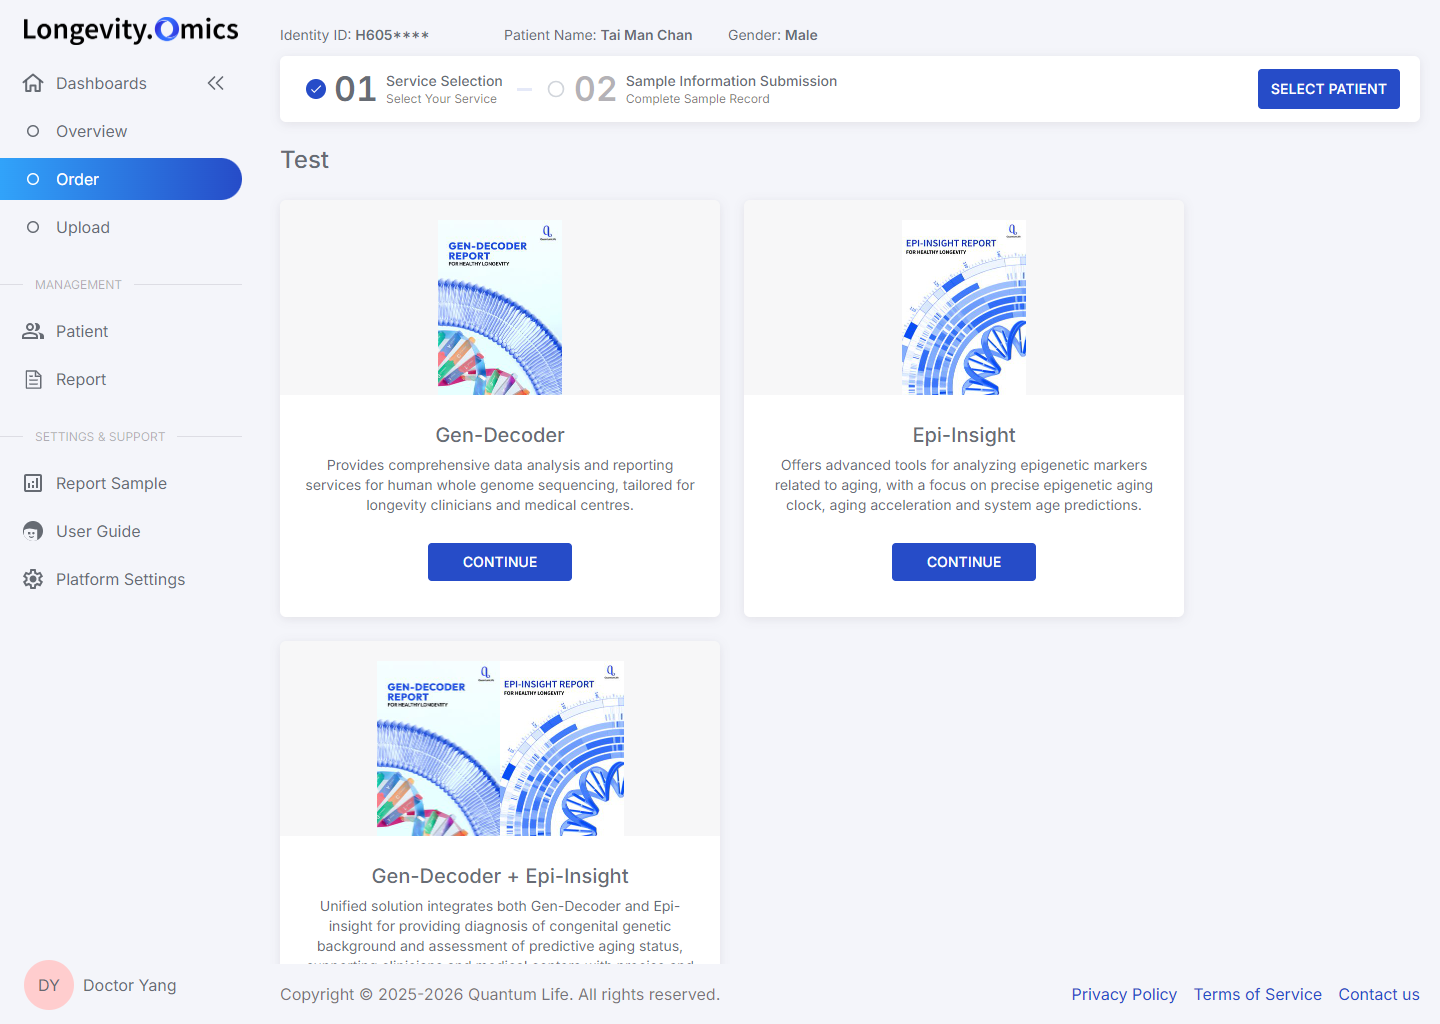
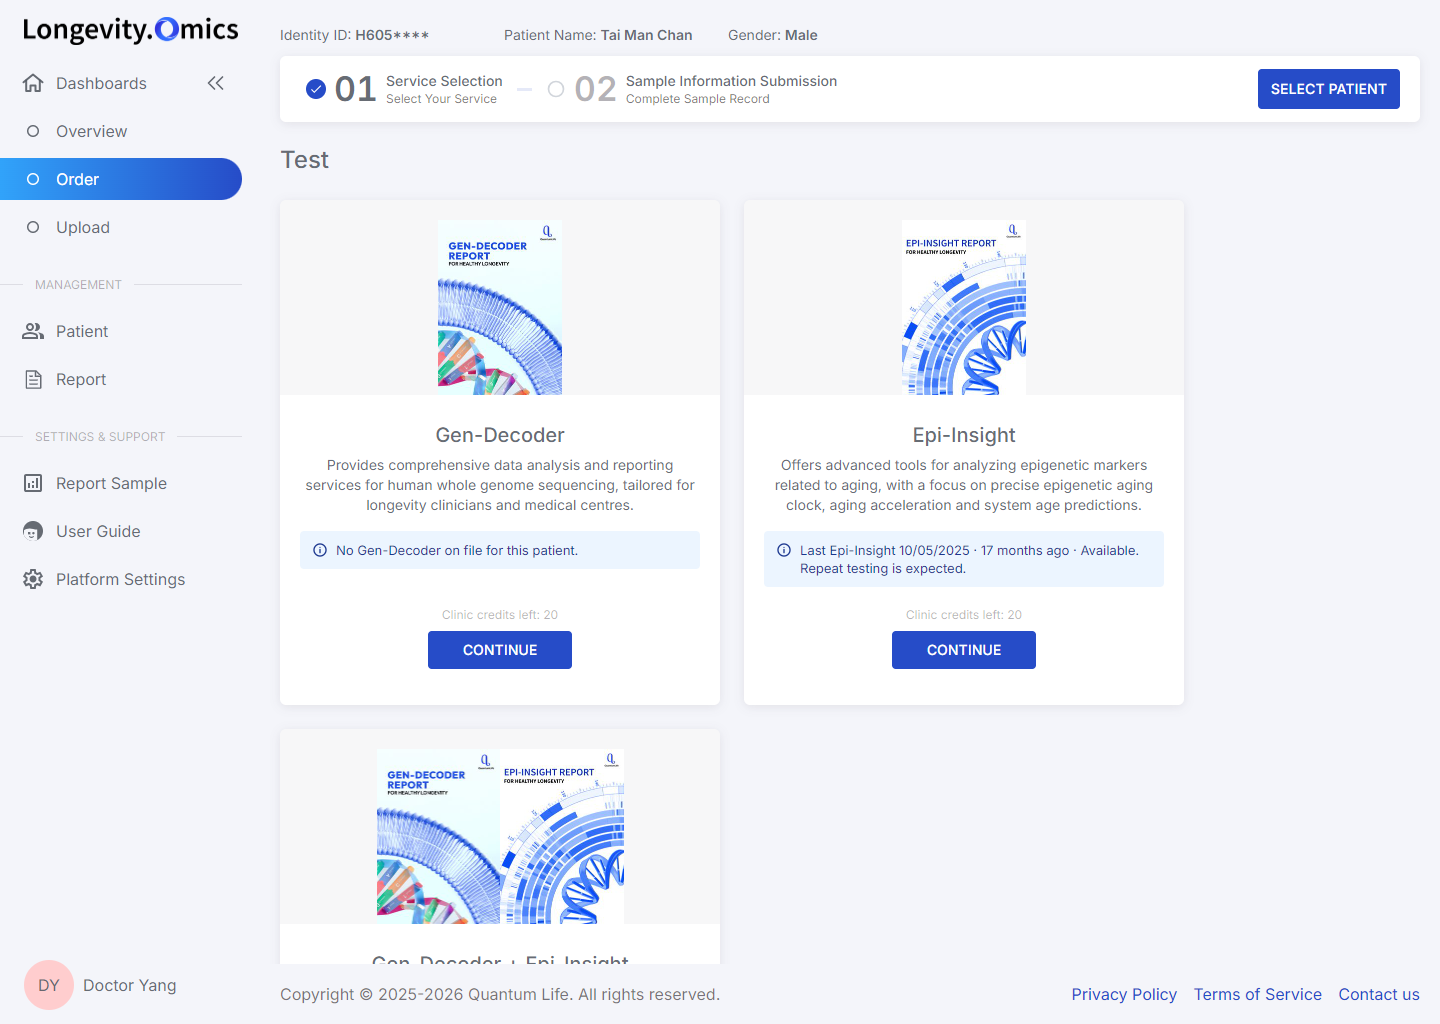
Order: one showcase for both entry points, patient-aware cards, Gen-Decoder reminder
- Patient file NEW REPORT now opens the Order showcase with that patient; the separate New Report modal is removed
- With a patient selected, each card shows its hint: existing Gen-Decoder, last Epi-Insight, Omni-Health prerequisites
- Cards show remaining clinic credits; blocked cards are disabled with the reason on the card
- Gen-Decoder (and the bundle) remind when one is already on file and allow Order anyway
- Omni-Health now requires an available Gen-Decoder and Epi-Insight (team rule) instead of the production check
- CONTINUE without a patient opens Select Patient directly, without a toast first

Changed region(s): [[0.2188, 0.5312, 0.4688, 0.9375], [0.5312, 0.5312, 0.7812, 0.6562]]

diff --git a/index.html b/index.html
@@ -215,24 +215,9 @@ tr.other .tag{opacity:.75}
 .by svg,.locked-note svg{width:14px;height:14px;flex:none}
 .locked-note{font-size:12px;color:var(--text-3);display:inline-flex;align-items:center;gap:6px}
 .rep-cell{font-size:13px}.rep-cell b{font-weight:500;color:var(--text)}.rep-cell.none{color:var(--text-3)}
-.overlay{position:absolute;left:260px;top:0;right:0;bottom:0;background:rgba(0,0,0,.5);z-index:80;display:flex;align-items:center;justify-content:center}
-.modal{width:600px;background:#fff;border-radius:6px;box-shadow:0 12px 32px 4px #0000000A,0 8px 20px #00000014;padding:16px}
-.m-head{display:flex;align-items:flex-start;justify-content:space-between;margin-bottom:14px}
-.m-title{font-size:18px;line-height:24px;font-weight:500;color:var(--text)}
-.m-sub{font-size:13px;color:var(--text-2);margin-top:2px}
 .m-close{width:28px;height:28px;border:0;background:none;color:var(--muted);cursor:pointer;border-radius:4px;display:flex;align-items:center;justify-content:center}
 .m-close svg{width:16px;height:16px}
 .m-close:hover{background:var(--hover);color:var(--text)}
-.opts{display:flex;flex-direction:column;gap:10px}
-.opt{display:flex;align-items:flex-start;gap:12px;padding:12px 14px;border:1px solid var(--border-light);border-radius:6px;cursor:pointer;transition:border-color .15s,background .15s}
-.opt:hover{border-color:#C9D4F5}
-.opt.sel{border-color:var(--primary);background:#F7F9FF}
-.opt .radio{width:16px;height:16px;border-radius:50%;border:1px solid var(--border);margin-top:1px;flex:none;position:relative;background:#fff}
-.opt.sel .radio{border-color:var(--primary);background:var(--primary)}
-.opt.sel .radio::after{content:"";position:absolute;inset:4px;border-radius:50%;background:#fff}
-.o-name{font-size:14px;font-weight:500;color:var(--text)}
-.o-desc{font-size:12px;line-height:16px;color:var(--text-2);margin-top:2px;max-width:400px}
-.o-have{margin-left:auto;font-size:12px;color:var(--text-2);white-space:nowrap;padding-top:2px}
 .note{margin-top:14px;border-radius:4px;padding:10px 12px;font-size:13px;line-height:18px;display:flex;gap:8px}
 .note b{font-weight:500}
 .note svg{width:16px;height:16px;flex:none;margin-top:1px}
@@ -264,16 +249,24 @@ tr.other .tag{opacity:.75}
 .o-group{font-size:24px;line-height:32px;font-weight:500;color:var(--text)}
 .o-group.analysis{margin-top:32px}
 .o-cards{margin-top:24px;display:flex;flex-wrap:wrap;gap:24px}
-.svc-card{max-width:440px;min-width:360px;overflow:hidden}
+.svc-card{max-width:440px;min-width:360px;overflow:hidden;display:flex;flex-direction:column}
+.svc-card.flash{animation:cardflash 1.8s ease}
+@keyframes cardflash{0%,55%{box-shadow:0 0 0 2px var(--primary),var(--shadow)}100%{box-shadow:var(--shadow)}}
 .svc-card .img{display:flex;align-items:center;justify-content:center;font-size:0;background:#3a35410a;padding:20px 20px 0}
 .svc-card .img img{height:175px;display:block}
 .svc-card .img img.multi{max-width:200px;object-fit:cover}
 .svc-card .img img.rt{object-position:right top}
 .svc-card .img img.lt{object-position:left top}
-.svc-card .bd{display:flex;flex-direction:column;align-items:center;padding:20px}
+.svc-card .bd{flex:1;display:flex;flex-direction:column;align-items:center;padding:20px}
+.svc-card .note{align-self:stretch;margin-top:16px;text-align:left}
+.svc-card .cta{margin-top:auto;padding-top:20px;display:flex;flex-direction:column;align-items:center}
+.svc-card .cred{font-size:12px;line-height:16px;color:var(--text-3)}
 .svc-card h6{margin-top:8px;font-size:20px;line-height:24px;font-weight:500;color:var(--text)}
 .svc-card p{margin-top:8px;text-align:center;font-size:14px;line-height:20px;color:var(--text)}
-.svc-card .btn{margin:28px 0 16px;height:38px;width:144px}
+.svc-card .btn{margin:8px 0 16px;height:38px;width:144px}
+.rm-body{font-size:14px;line-height:20px;color:var(--text)}
+.rm-body .note{margin-top:0}
+.rm-body p{margin-top:12px}
 .o-form{padding:20px}
 .f-sec{margin-bottom:32px}
 .f-sec h6{font-size:20px;line-height:24px;font-weight:500;color:var(--text)}
@@ -670,7 +663,7 @@ function openMenu(anchor, container, items, onPick, opts={}){
 }
 document.addEventListener("click", e => { if (openDD && !openDD.el.contains(e.target) && !openDD.anchor.contains(e.target)) closeDD(); });
 document.addEventListener("keydown", e => {
-  if (e.key === "Escape") { closeDD(); closeOrder(); const a = document.activeElement; if (a && a.tagName === "INPUT") { if (a.value) { a.value = ""; a.dispatchEvent(new Event("input")); } else a.blur(); } }
+  if (e.key === "Escape") { closeDD(); closeReminder(); const a = document.activeElement; if (a && a.tagName === "INPUT") { if (a.value) { a.value = ""; a.dispatchEvent(new Event("input")); } else a.blur(); } }
   if (e.key === "/" && !["INPUT","TEXTAREA"].includes(document.activeElement.tagName)) { e.preventDefault(); const inp = state.route === "reports" ? $("#r-search") : $("#p-search"); if (state.route !== "detail") inp.focus(); }
 });
 
@@ -815,7 +808,7 @@ function openDetail(pid){
     '<div class="head-actions"><button class="btn plain" data-toast="\u201cUpload body test\u201d page is unchanged in this prototype">Upload Body Test</button><button class="btn" id="d-new">New Report</button></div></div>' +
     '<table><colgroup><col style="width:160px"><col style="width:150px"><col style="width:140px"><col style="width:160px"><col style="width:170px"><col style="width:320px"></colgroup><thead><tr><th>Report Type</th><th>Collection Date</th><th>Status</th><th>Ordered By</th><th>Report ID</th><th>Action</th></tr></thead><tbody>' +
     (hist.length ? hist.map(hrow).join("") : '<tr><td colspan="6"><div class="empty">No reports on file for this patient yet.</div></td></tr>') + '</tbody></table></div>';
-  $("#d-new").addEventListener("click", () => openOrder(pid));
+  $("#d-new").addEventListener("click", () => { orderReset(); closePicker(); loadPatient(pid); show("order"); });
   $("#d-body").querySelectorAll("[data-toast]").forEach(b => b.addEventListener("click", e => { e.stopPropagation(); toast(b.dataset.toast); }));
   const prevSt = state[state.prev]; const bits = [];
   if (prevSt.q) bits.push('search “' + prevSt.q + '”'); if (state.prev === "reports") { if (prevSt.type !== "All") bits.push(prevSt.type); if (prevSt.status !== "All") bits.push(prevSt.status.toLowerCase()); } else if (prevSt.gender !== "All") bits.push(prevSt.gender.toLowerCase());
@@ -824,47 +817,6 @@ function openDetail(pid){
 }
 $("#d-back").addEventListener("click", () => { show(state.prev, true); });
 
-/* ---------- New report: service picker with the re-order rule (Gen-Decoder once, Epi-Insight repeatable) ---------- */
-function openOrder(pid, pre){
-  const p = patients.find(x => x.pid === pid); if (!p) return;
-  const all = reports.filter(r => r.pid === pid);
-  const have = t => all.filter(r => r.type === t).sort((a, b) => b.date - a.date);
-  const monthsAgo = d => Math.max(0, Math.round((TODAY - d) / (30.44 * 864e5)));
-  const who = r => r.mine ? "ordered by you" : "ordered by another doctor";
-  const SVCS = [
-    ["Gen-Decoder", "gd", "Whole-genome report: disease risk, pharmacogenomics and lifestyle. A one-time test, because genetic results do not change."],
-    ["Epi-Insight", "ei", "Epigenetic age and aging-rate report. Meant to be repeated, so change over time can be tracked."],
-    ["Omni-Health", "oh", "Integrated analysis of clinical, genetic and epigenetic profiles with an action plan. Built from the patient\u2019s Gen-Decoder, Epi-Insight and body test."]
-  ];
-  let sel = SVCS.some(x => x[1] === pre) ? pre : "gd";
-  const ov = document.createElement("div"); ov.className = "overlay"; ov.id = "overlay";
-  const render = () => {
-    const svc = SVCS.find(x => x[1] === sel); const prior = have(svc[0]);
-    let note = "", label = "Continue", disabled = false;
-    if (sel === "gd") {
-      if (prior.length) { const r = prior[0]; note = '<div class="note warn">' + ICON.warn + '<div><b>This patient already has a Gen-Decoder report</b> (' + r.status + ' \u00b7 ' + fmtDate(r.date) + ' \u00b7 ' + who(r) + '). Genetic results do not change, so a second test is rarely needed.' + (r.mine ? '' : ' You cannot open that report because another doctor ordered it.') + '</div></div>'; label = "Order anyway"; }
-      else note = '<div class="note info">' + ICON.info + '<div>No Gen-Decoder on file for this patient. This is a one-time test.</div></div>';
-    } else if (sel === "ei") {
-      if (prior.length) { const r = prior[0]; note = '<div class="note info">' + ICON.info + '<div>Last Epi-Insight: ' + fmtDate(r.date) + ' (' + monthsAgo(r.date) + ' months ago \u00b7 ' + r.status + ' \u00b7 ' + who(r) + '). Epigenetic age changes over time, so repeat testing is expected.</div></div>'; }
-      else note = '<div class="note info">' + ICON.info + '<div>No Epi-Insight on file yet. This one will be the patient\u2019s baseline.</div></div>';
-    } else {
-      const gd = have("Gen-Decoder").find(r => r.status === "Available"), ei = have("Epi-Insight").find(r => r.status === "Available");
-      if (gd && ei) note = '<div class="note info">' + ICON.info + '<div>Will link the patient\u2019s latest Gen-Decoder (' + fmtDate(gd.date) + ') and Epi-Insight (' + fmtDate(ei.date) + '). You choose or upload a body test in the next step.</div></div>';
-      else { note = '<div class="note warn">' + ICON.warn + '<div><b>Omni-Health needs an available Gen-Decoder and Epi-Insight report first.</b> This patient is missing ' + (!gd && !ei ? 'both' : !gd ? 'Gen-Decoder' : 'Epi-Insight') + '.</div></div>'; disabled = true; }
-    }
-    ov.innerHTML = '<div class="modal"><div class="m-head"><div><div class="m-title">New report</div><div class="m-sub">for ' + esc(p.name) + ' \u00b7 ' + p.pid + '</div></div><button class="m-close" title="Close">' + ICON.x + '</button></div>' +
-      '<div class="opts">' + SVCS.map(x => { const c = have(x[0]).length; return '<div class="opt' + (x[1] === sel ? ' sel' : '') + '" data-svc="' + x[1] + '"><span class="radio"></span><div><div class="o-name">' + x[0] + '</div><div class="o-desc">' + x[2] + '</div></div><div class="o-have">' + (c ? c + ' on file' : 'none on file') + '</div></div>'; }).join("") + '</div>' + note +
-      '<div class="m-foot"><button class="btn plain" id="o-cancel">Cancel</button><button class="btn" id="o-go"' + (disabled ? ' disabled' : '') + '>' + label + '</button></div></div>';
-    ov.querySelectorAll(".opt").forEach(o => o.addEventListener("click", () => { sel = o.dataset.svc; render(); }));
-    ov.querySelector(".m-close").addEventListener("click", closeOrder);
-    ov.querySelector("#o-cancel").addEventListener("click", closeOrder);
-    ov.querySelector("#o-go").addEventListener("click", () => { closeOrder(); orderReset(); closePicker(); loadPatient(pid); show("order"); chooseService({ gd: "Gen-Decoder", ei: "Epi-Insight", oh: "Omni-Health" }[sel]); });
-  };
-  render();
-  ov.addEventListener("click", e => { if (e.target === ov) closeOrder(); });
-  $("#frame").appendChild(ov);
-}
-function closeOrder(){ const o = $("#overlay"); if (o) o.remove(); }
 
 /* =====================================================================
    Order — rebuilt from the shipped app's order module so the demo has a
@@ -902,25 +854,72 @@ function loadPatient(pid){
   O.p = p; O.country = p.country || ""; O.family = p.family || ""; O.gd = O.ei = O.bt = ""; O.file = null; O.errs = {};
   return true;
 }
-function chooseService(svc){
-  if (!O.p) { toast("Please select patient first"); openPicker(svc); return; }
-  const rs = orderReports();
-  const hasGD = rs.some(r => r.service === "Gen-Decoder"), hasEI = rs.some(r => r.service === "Epi-Insight");
-  // production only blocks when BOTH are missing, and counts reports in any status
-  if (svc === "Omni-Health" && !hasGD && !hasEI) { toast("Please complete Gen-Decoder and Epi-Insight services first before using Omni-Health"); return; }
-  const short = (CREDIT_KEYS[svc] || []).filter(k => clinicCredits[k] < 1).map(k => { const e = Object.entries(CREDIT_KEYS).find(([, v]) => v.length === 1 && v[0] === k); return (e ? e[0] : k) + " (" + clinicCredits[k] + "/1)"; });
-  if (short.length) { toast("Insufficient clinic credits for " + short.join(", ") + ". Please top up credits before placing this order."); return; }
+const CREDIT_NAMES = { GenDecoder: "Gen-Decoder", EpiInsight: "Epi-Insight", OmniHealth: "Omni-Health" };
+function agoText(d){ const days = Math.round((TODAY - d) / 864e5); if (days < 1) return "today"; if (days < 45) return days + (days === 1 ? " day ago" : " days ago"); const m = Math.round(days / 30.44); return m + (m === 1 ? " month ago" : " months ago"); }
+// What a card should say for the selected patient: hint text, whether CONTINUE is blocked, and whether to remind before ordering
+function cardState(value){
+  const keys = CREDIT_KEYS[value] || [];
+  const st = { credit: "Clinic credits left: " + keys.map(k => (keys.length > 1 ? CREDIT_NAMES[k] + " " : "") + clinicCredits[k]).join(" \u00b7 "), tone: "", msg: "", blocked: false, remind: null };
+  const short = keys.filter(k => clinicCredits[k] < 1).map(k => CREDIT_NAMES[k]);
+  if (short.length) { st.tone = "warn"; st.blocked = true; st.msg = "<b>No credits left for " + short.join(" and ") + ".</b> Ask your clinic admin to top up before ordering."; return st; }
+  if (!O.p) return st;
+  const all = reports.filter(r => r.pid === O.p.pid);
+  const latest = (t, availableOnly) => all.filter(r => r.type === t && (!availableOnly || r.status === "Available")).sort((a, b) => b.date - a.date)[0];
+  const who = r => r.mine ? "ordered by you" : "ordered by another doctor";
+  const gd = latest("Gen-Decoder"), ei = latest("Epi-Insight");
+  if (value === "Gen-Decoder" || value === "Gen-Decoder,Epi-Insight") {
+    if (gd) { st.tone = "warn"; st.remind = gd; st.msg = "<b>Gen-Decoder already on file</b> \u00b7 " + gd.status + " \u00b7 " + fmtDate(gd.date) + " \u00b7 " + who(gd) + ". It is a one-time test."; }
+    else if (value === "Gen-Decoder") { st.tone = "info"; st.msg = "No Gen-Decoder on file for this patient."; }
+    else { st.tone = "info"; st.msg = "No Gen-Decoder on file. " + (ei ? "Last Epi-Insight " + fmtDate(ei.date) + ", " + agoText(ei.date) + "." : "No Epi-Insight on file either."); }
+  } else if (value === "Epi-Insight") {
+    st.tone = "info"; st.msg = ei ? "Last Epi-Insight " + fmtDate(ei.date) + " \u00b7 " + agoText(ei.date) + " \u00b7 " + ei.status + ". Repeat testing is expected." : "No Epi-Insight on file yet. This one will be the baseline.";
+  } else if (value === "Omni-Health") {
+    const g = latest("Gen-Decoder", true), e = latest("Epi-Insight", true);
+    if (g && e) { st.tone = "info"; st.msg = "Available on file: Gen-Decoder " + fmtDate(g.date) + " and Epi-Insight " + fmtDate(e.date) + ". You choose which reports to use in the next step."; }
+    else { st.tone = "warn"; st.blocked = true; st.msg = "<b>Needs an available Gen-Decoder and Epi-Insight first.</b> Missing: " + (!g && !e ? "both" : !g ? "Gen-Decoder" : "Epi-Insight") + "."; }
+  }
+  return st;
+}
+function chooseService(svc, confirmed){
+  if (!O.p) { openPicker(svc); return; }   // the showcase stays browsable; a patient is asked for only when ordering
+  const st = cardState(svc);
+  if (st.blocked) { renderOrder(); flashCard(svc); return; }   // the reason is written on the card
+  if (st.remind && !confirmed) { openReminder(svc, st.remind); return; }
   O.details = svc === "Gen-Decoder,Epi-Insight"
     ? [{ reportId: newRid(O.p.identity), service: "Gen-Decoder", type: "Pro" }, { reportId: newRid(O.p.identity), service: "Epi-Insight", type: "" }]
     : [{ reportId: newRid(O.p.identity), service: svc, type: "" }];
   O.step = 1; O.errs = {}; renderOrder(); $("#main").scrollTop = 0;
 }
+function flashCard(svc){
+  const el = document.querySelector('.svc-card[data-card="' + svc + '"]'); if (!el) return;
+  el.scrollIntoView({ block: "center" }); el.classList.remove("flash"); void el.offsetWidth; el.classList.add("flash");
+}
+// Gen-Decoder is a one-time test: remind, never block
+function openReminder(svc, r){
+  closeReminder();
+  const ov = document.createElement("div"); ov.className = "dlg-ov"; ov.id = "rm-overlay";
+  ov.innerHTML = '<div class="dlg sm" role="dialog" aria-modal="true" aria-labelledby="rm-t"><div class="dlg-h"><span class="dlg-t" id="rm-t">This patient already has a Gen-Decoder report</span><button class="m-close" id="rm-x" title="Close">' + ICON.x + '</button></div>' +
+    '<div class="rm-body"><div class="note warn">' + ICON.warn + '<div>Gen-Decoder \u00b7 ' + r.status + ' \u00b7 ' + fmtDate(r.date) + ' \u00b7 ' + (r.mine ? 'ordered by you' : 'ordered by another doctor') + '</div></div>' +
+    '<p>Genetic results do not change over a lifetime, so a second Gen-Decoder is rarely needed. You can still order one, for example if the patient asks to repeat it.</p>' +
+    (r.mine ? '' : '<p>You cannot open the existing report because another doctor ordered it.</p>') +
+    (svc === "Gen-Decoder,Epi-Insight" ? '<p>If you only need a new Epi-Insight, order it on its own instead of the bundle.</p>' : '') + '</div>' +
+    '<div class="m-foot"><button class="btn plain" id="rm-cancel">Cancel</button><button class="btn" id="rm-go">Order anyway</button></div></div>';
+  $("#frame").appendChild(ov);
+  $("#rm-x").addEventListener("click", closeReminder);
+  $("#rm-cancel").addEventListener("click", closeReminder);
+  $("#rm-go").addEventListener("click", () => { closeReminder(); chooseService(svc, true); });
+  $("#rm-go").focus();
+}
+function closeReminder(){ const o = $("#rm-overlay"); if (o) o.remove(); }
 
 function svcCard(c){
+  const st = cardState(c.value);
   const img = Array.isArray(c.image)
     ? c.image.map((s, i) => '<img class="multi ' + (i % 2 ? 'lt' : 'rt') + '" src="' + s + '" alt="">').join("")
     : '<img src="' + c.image + '" alt="">';
-  return '<div class="card svc-card"><div class="img">' + img + '</div><div class="bd"><h6>' + esc(c.label) + '</h6><p>' + esc(c.description) + '</p><button class="btn" data-svc="' + c.value + '">Continue</button></div></div>';
+  return '<div class="card svc-card" data-card="' + c.value + '"><div class="img">' + img + '</div><div class="bd"><h6>' + esc(c.label) + '</h6><p>' + esc(c.description) + '</p>' +
+    (st.msg ? '<div class="note ' + st.tone + '">' + (st.tone === "warn" ? ICON.warn : ICON.info) + '<div>' + st.msg + '</div></div>' : '') +
+    '<div class="cta"><span class="cred">' + st.credit + '</span><button class="btn" data-svc="' + c.value + '"' + (st.blocked ? ' disabled' : '') + '>Continue</button></div></div></div>';
 }
 function orderServicesHTML(){
   return '<h5 class="o-group">Test</h5><div class="o-cards">' + ORDER_TESTS.map(svcCard).join("") + '</div>' +
@@ -1110,7 +1109,6 @@ if (startRoute === "order") {
   if (qs.get("opick")) openPicker(qs.get("opick") === "1" ? "" : qs.get("opick"));
 }
 if (qs.get("detail")) openDetail(qs.get("detail"));
-if (qs.get("order")) setTimeout(() => openOrder(qs.get("detail"), qs.get("order")), 60);
 if (qs.get("open")) setTimeout(() => $({type: "#r-f-type", status: "#r-f-status", gender: "#p-f-gender", rpp: "#rpp-sel"}[qs.get("open")])?.click(), 50);
 </script>
 </body>
